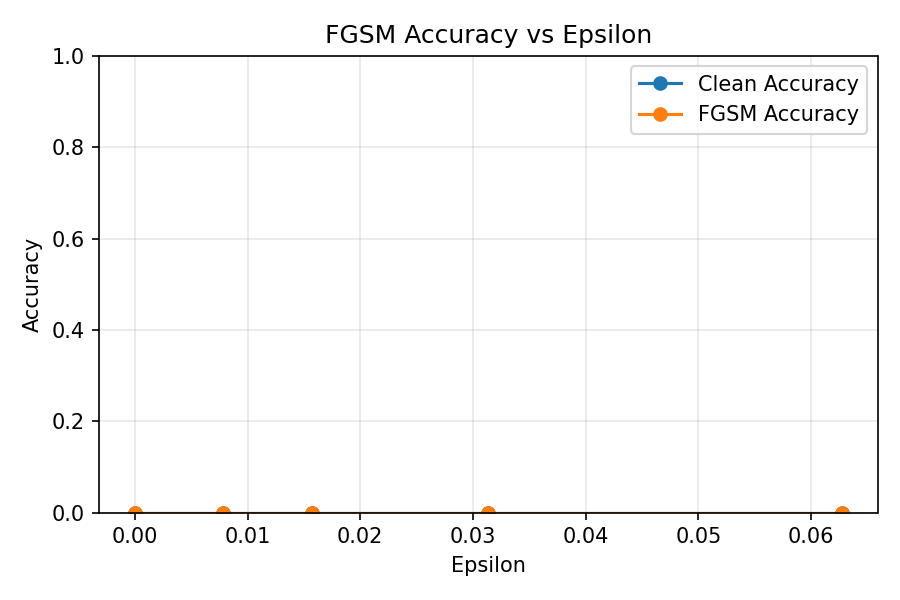
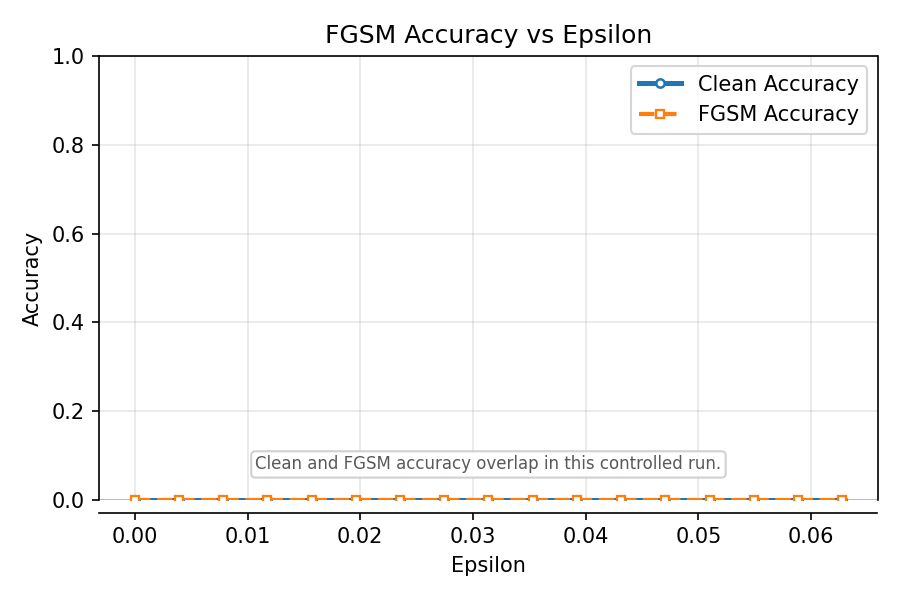
feat: refine FGSM sweep visualization and artifact links

diff --git a/src/plotting.py b/src/plotting.py
@@ -134,22 +134,54 @@ def plot_fgsm_accuracy_vs_epsilon(
     figure_path.parent.mkdir(parents=True, exist_ok=True)
 
     figure, axes = plt.subplots(figsize=(6, 4))
+    axes.axhline(0.0, color="0.75", linewidth=1.0, zorder=1)
     axes.plot(
         epsilons,
         clean_accuracy,
+        color="#1f77b4",
+        linewidth=2.4,
         marker="o",
+        markersize=4,
+        markerfacecolor="white",
+        markeredgewidth=1.2,
         label="Clean Accuracy",
+        zorder=3,
     )
     axes.plot(
         epsilons,
         adversarial_accuracy,
-        marker="o",
+        color="#ff7f0e",
+        linewidth=2.0,
+        linestyle="--",
+        marker="s",
+        markersize=3.5,
+        markerfacecolor="white",
+        markeredgewidth=1.1,
         label="FGSM Accuracy",
+        zorder=4,
     )
     axes.set_xlabel("Epsilon")
     axes.set_ylabel("Accuracy")
     axes.set_title("FGSM Accuracy vs Epsilon")
     axes.set_ylim(0.0, 1.0)
+    axes.spines["bottom"].set_position(("outward", 6))
+    if np.allclose(clean_accuracy, adversarial_accuracy):
+        axes.text(
+            0.5,
+            0.06,
+            "Clean and FGSM accuracy overlap in this controlled run.",
+            transform=axes.transAxes,
+            ha="center",
+            va="bottom",
+            fontsize=8,
+            color="0.35",
+            bbox={
+                "boxstyle": "round,pad=0.25",
+                "facecolor": "white",
+                "edgecolor": "0.8",
+                "alpha": 0.9,
+            },
+        )
     axes.grid(True, alpha=0.3)
     axes.legend()
     figure.tight_layout()

diff --git a/tests/test_fgsm_robustness_runner.py b/tests/test_fgsm_robustness_runner.py
@@ -74,13 +74,7 @@ def test_wp8_config_defaults_match_documented_controlled_settings() -> None:
     assert config.eval_samples == 32
     assert config.batch_size == 8
     assert config.seed == 42
-    assert config.epsilon_values == (
-        0.0,
-        2.0 / 255.0,
-        4.0 / 255.0,
-        8.0 / 255.0,
-        16.0 / 255.0,
-    )
+    assert config.epsilon_values == tuple(index / 255.0 for index in range(17))
     assert config.output_dir.name == "WP8"
     assert config.representative_epsilon == 8.0 / 255.0
     assert config.max_successful_examples == 1

diff --git a/experiments/fgsm/evaluate_robustness.py b/experiments/fgsm/evaluate_robustness.py
@@ -31,13 +31,7 @@ from src.robustness import (
     select_fgsm_representative_examples,
 )
 
-DEFAULT_EPSILON_VALUES = (
-    0.0,
-    2.0 / 255.0,
-    4.0 / 255.0,
-    8.0 / 255.0,
-    16.0 / 255.0,
-)
+DEFAULT_EPSILON_VALUES = tuple(index / 255.0 for index in range(17))
 
 
 @dataclass(frozen=True)

diff --git a/README.md b/README.md
@@ -25,11 +25,11 @@ gradients, and FGSM attack pipeline are implemented directly with NumPy.
 
 ### FGSM robustness smoke evaluation
 
-![FGSM accuracy vs epsilon](results/WP8/fgsm_accuracy_vs_epsilon.png)
+[![FGSM accuracy vs epsilon](results/WP8/fgsm_accuracy_vs_epsilon.png)](results/WP8/fgsm_accuracy_vs_epsilon.png)
 
-Controlled WP8 smoke run over epsilon values `0`, `2/255`, `4/255`, `8/255`,
-and `16/255`. The pipeline produces clean accuracy, adversarial accuracy,
-accuracy drop, and attack success rate metrics.
+Controlled WP8 smoke run over epsilon values from `0/255` through `16/255`.
+The pipeline produces clean accuracy, adversarial accuracy, accuracy drop, and
+attack success rate metrics.
 
 Important limitation: the current controlled checkpoint achieved `0.0` clean
 accuracy on the fixed 32-sample subset, so this plot validates the evaluation
@@ -39,7 +39,7 @@ pipeline rather than proving final CIFAR-10 robustness.
 
 | Clean image | FGSM adversarial image | Input-gradient map | Perturbation map |
 | ----------- | ---------------------- | ------------------ | ---------------- |
-| <img src="results/WP7/qualitative/fgsm_example_000_clean.png" width="120"/> | <img src="results/WP7/qualitative/fgsm_example_000_adversarial.png" width="120"/> | <img src="results/WP7/qualitative/fgsm_example_000_input_gradient.png" width="120"/> | <img src="results/WP7/qualitative/fgsm_example_000_perturbation.png" width="120"/> |
+| [<img src="results/WP7/qualitative/fgsm_example_000_clean.png" width="120"/>](results/WP7/qualitative/fgsm_example_000_clean.png) | [<img src="results/WP7/qualitative/fgsm_example_000_adversarial.png" width="120"/>](results/WP7/qualitative/fgsm_example_000_adversarial.png) | [<img src="results/WP7/qualitative/fgsm_example_000_input_gradient.png" width="120"/>](results/WP7/qualitative/fgsm_example_000_input_gradient.png) | [<img src="results/WP7/qualitative/fgsm_example_000_perturbation.png" width="120"/>](results/WP7/qualitative/fgsm_example_000_perturbation.png) |
 
 These images are generated from the WP7 qualitative FGSM pipeline. They show
 the original sample, the FGSM-perturbed sample, the loss input-gradient map,
@@ -108,7 +108,7 @@ The output shape is:
 Latest local validation:
 
 ```text
-159 passed in 8.70s
+159 passed
 ```
 
 The tests cover:
@@ -202,16 +202,14 @@ The controlled WP8 run used:
 eval_samples: 32
 batch_size: 8
 seed: 42
-epsilon_values: [0, 2/255, 4/255, 8/255, 16/255]
+epsilon_values: [0/255, 1/255, 2/255, ..., 16/255]
 ```
 
-Committed artifacts:
+### Experiment artifacts
 
-```text
-results/WP8/fgsm_robustness_metrics.json
-results/WP8/fgsm_accuracy_vs_epsilon.png
-deliverables/WP8/wp8_smoke_review.md
-```
+- [FGSM robustness metrics (JSON)](results/WP8/fgsm_robustness_metrics.json)
+- [FGSM accuracy vs. epsilon plot (PNG)](results/WP8/fgsm_accuracy_vs_epsilon.png)
+- [WP8 controlled smoke review](deliverables/WP8/wp8_smoke_review.md)
 
 Current result caveat: all clean and adversarial accuracies are `0.0` on the
 fixed 32-sample subset because the checkpoint is weak. Treat WP8 as controlled
@@ -250,12 +248,10 @@ MPLCONFIGDIR=/tmp/cnn-wp7-matplotlib .venv/bin/python -m experiments.fgsm.genera
 
 Default outputs:
 
-```text
-results/WP7/qualitative/fgsm_example_000_clean.png
-results/WP7/qualitative/fgsm_example_000_adversarial.png
-results/WP7/qualitative/fgsm_example_000_input_gradient.png
-results/WP7/qualitative/fgsm_example_000_perturbation.png
-```
+- [Clean image](results/WP7/qualitative/fgsm_example_000_clean.png)
+- [FGSM adversarial image](results/WP7/qualitative/fgsm_example_000_adversarial.png)
+- [Input-gradient map](results/WP7/qualitative/fgsm_example_000_input_gradient.png)
+- [Perturbation map](results/WP7/qualitative/fgsm_example_000_perturbation.png)
 
 ### Run controlled FGSM robustness evaluation
 
@@ -267,10 +263,8 @@ MPLCONFIGDIR=/tmp/cnn-wp8-matplotlib .venv/bin/python -m experiments.fgsm.evalua
 
 Default outputs:
 
-```text
-results/WP8/fgsm_robustness_metrics.json
-results/WP8/fgsm_accuracy_vs_epsilon.png
-```
+- [FGSM robustness metrics (JSON)](results/WP8/fgsm_robustness_metrics.json)
+- [FGSM accuracy vs. epsilon plot (PNG)](results/WP8/fgsm_accuracy_vs_epsilon.png)
 
 The data loader checks for local CIFAR-10 data and does not silently fabricate
 large-scale benchmark results.
